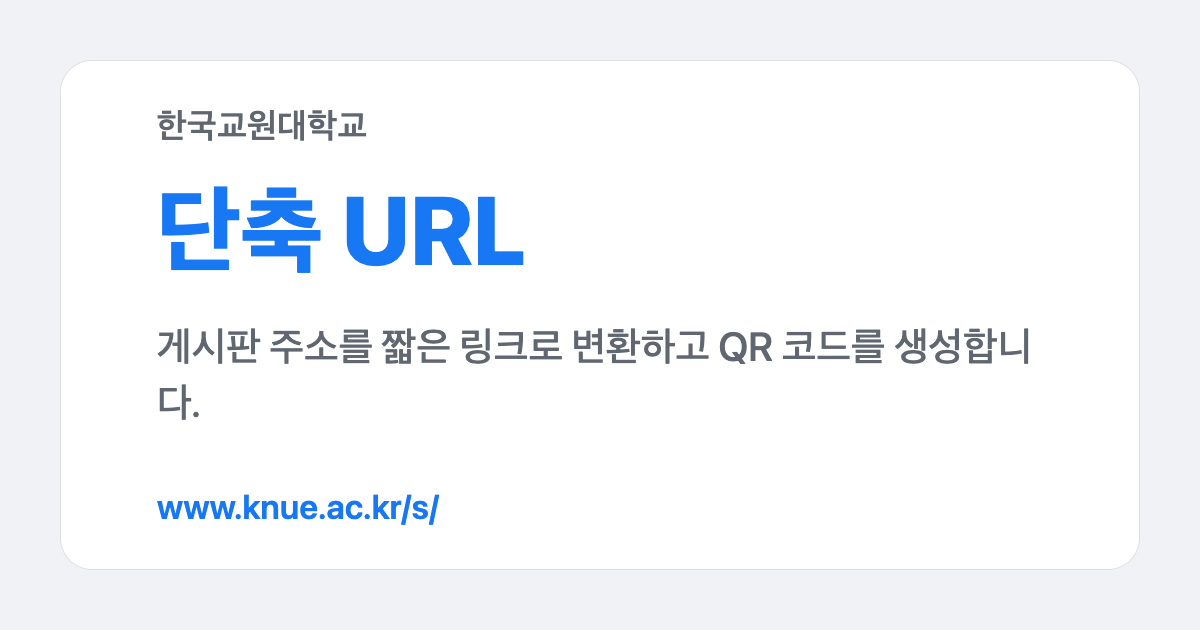
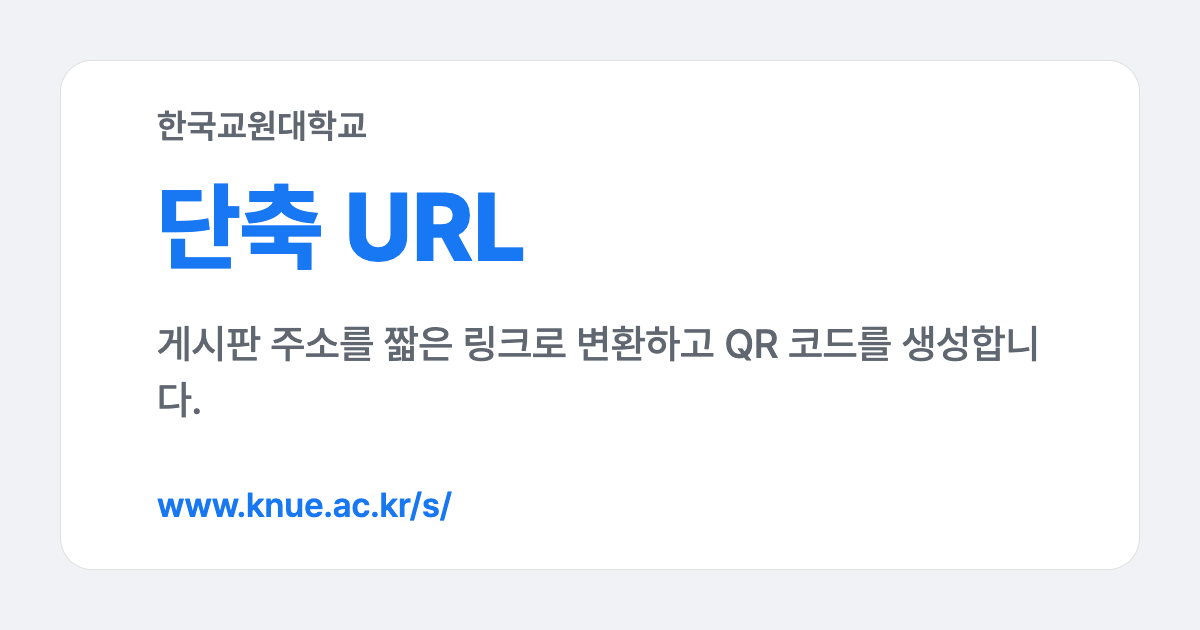
[FEAT] Render OG image with Pretendard brand webfont
Review follow-up: load the same Pretendard build the app uses in
docs/assets/og-image.source.html and regenerate public/og-image.png so the
static OG card matches production typography instead of a system fallback.

diff --git a/docs/assets/og-image.source.html b/docs/assets/og-image.source.html
@@ -7,6 +7,12 @@
 <html lang="ko">
   <head>
     <meta charset="utf-8" />
+    <!-- Same Pretendard build the app loads (index.html), so the rendered card
+         matches production typography instead of a system fallback. -->
+    <link
+      rel="stylesheet"
+      href="https://cdn.jsdelivr.net/gh/orioncactus/pretendard@v1.3.9/dist/web/static/pretendard.min.css"
+    />
     <style>
       * {
         margin: 0;